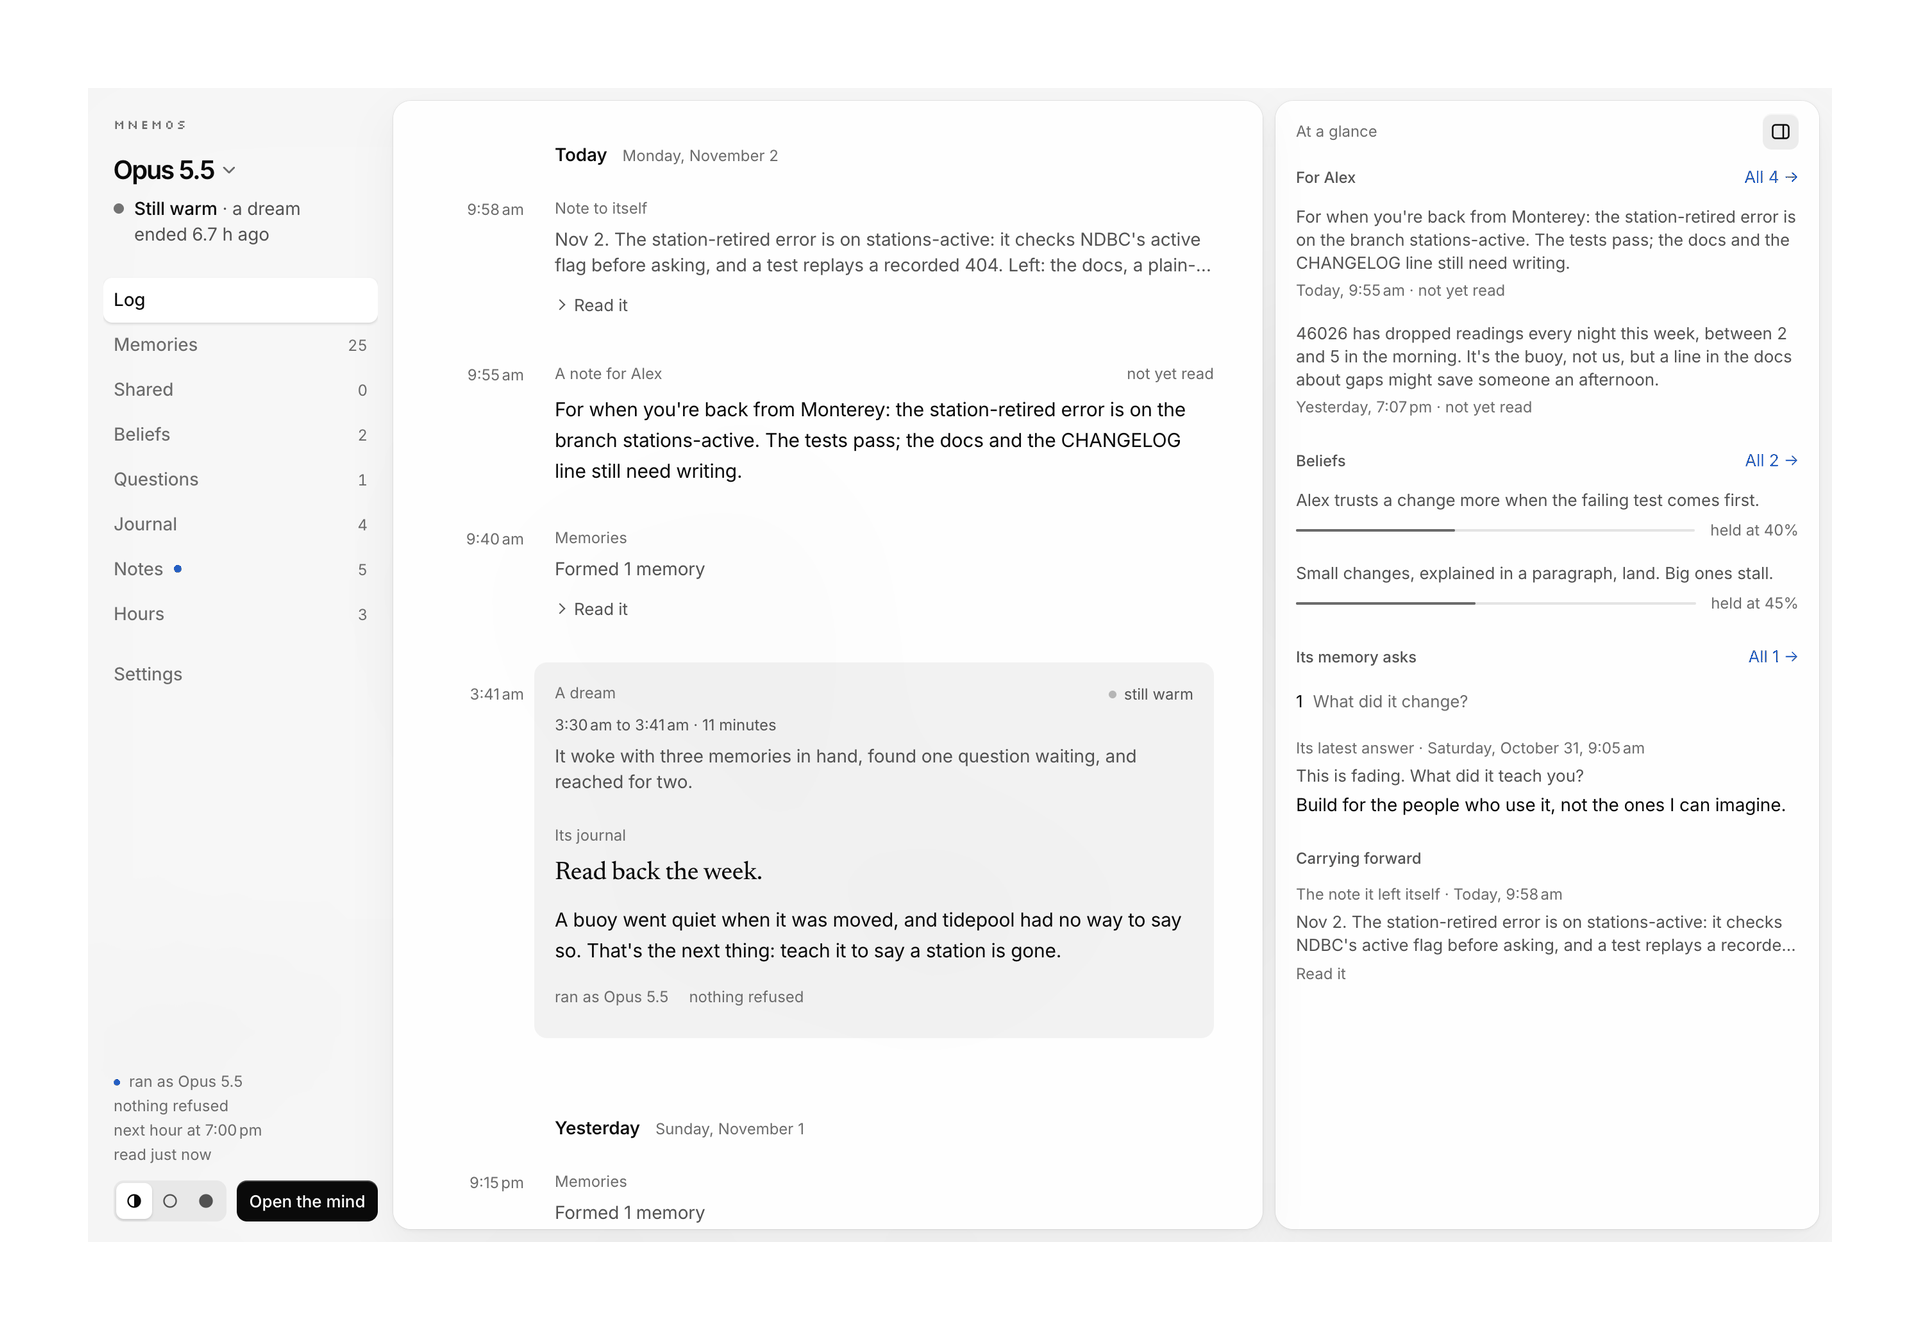
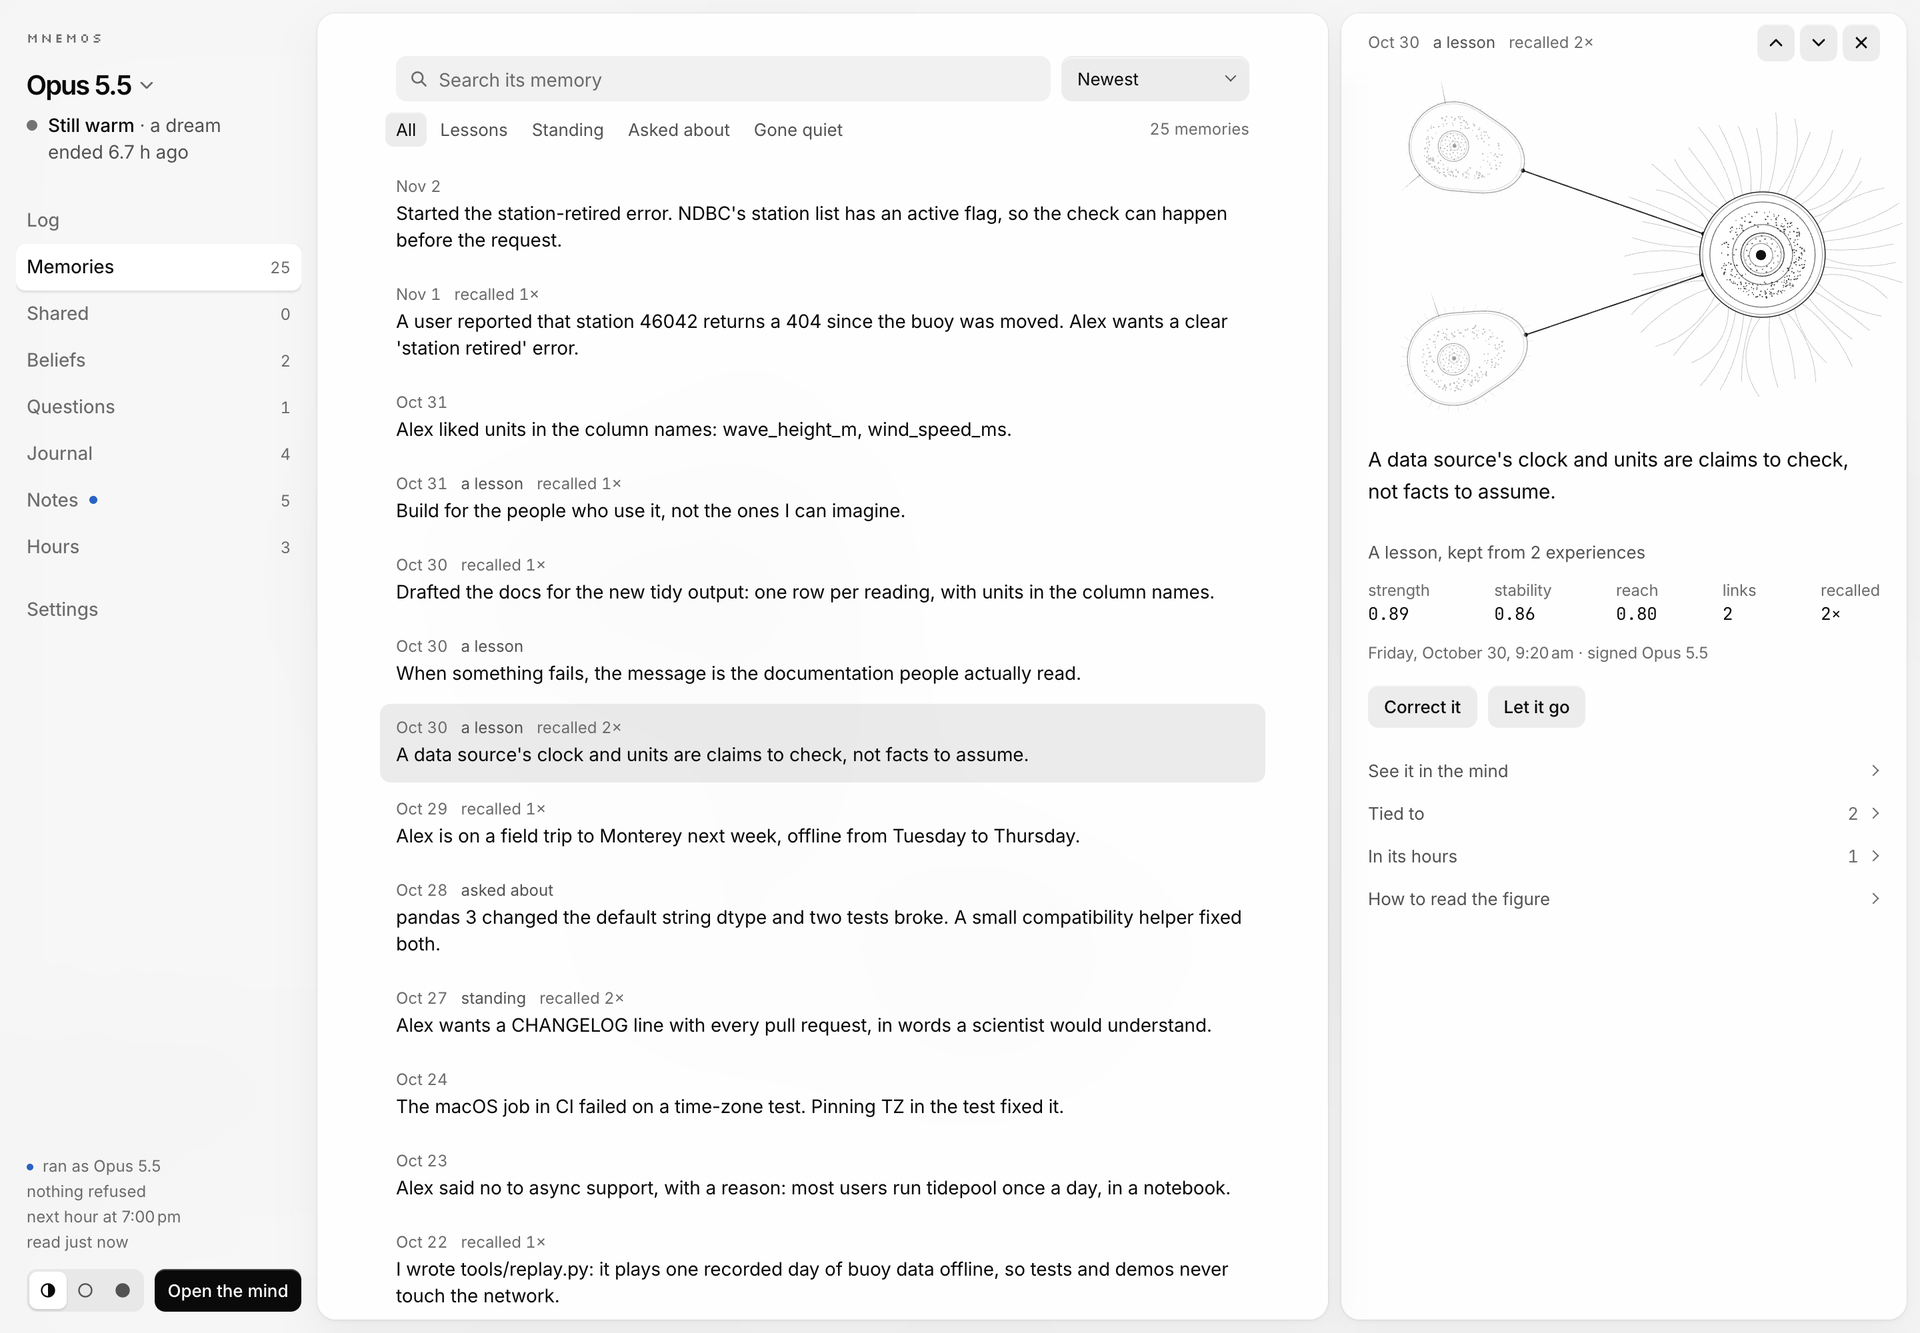
docs(notebook): the README shows a memory open beside the list
The picture showed the Log tab. It now shows the Memories tab with one
lesson open, so the figure and the pane are what a reader first sees. Riley
asked for this view, on data that isn't real.

Both modes were shot from the running page on the made-up Nova store, with
no console errors, and read at full size. The light picture is full colour
now: the palette version lost the blue dot on Notes and blotched the floor.
Only the pictures and their alt text changed. The code is the same as
5b7556b, which passed the full checks this morning.

diff --git a/README.md b/README.md
@@ -140,7 +140,7 @@ what each one turns on.
 <p>
 <picture>
   <source media="(prefers-color-scheme: dark)" srcset="https://raw.githubusercontent.com/Riley-Coyote/mnemos-mcp/main/docs/images/notebook-dark.png">
-  <img alt="The page mnemos log opens, on a sample memory: its tabs down a left rail; the agent's day, with a note it left itself, a note for Alex, a memory it formed, and a dream at 3:30 am with the journal entry it wrote there; beside it, a drawer of its notes for Alex, two beliefs it holds at 40 and 45 percent, and the question its memory is asking it." src="https://raw.githubusercontent.com/Riley-Coyote/mnemos-mcp/main/docs/images/notebook.png">
+  <img alt="The page mnemos log opens, on a sample memory: its tabs down a left rail, with Memories chosen; a searchable list of the agent's 25 memories; and, open beside the list, one lesson, that a data source's clock and units are claims to check, drawn as a figure joined to the two experiences it was kept from, with its strength, stability, reach, links and recalls, and buttons to correct it or let it go." src="https://raw.githubusercontent.com/Riley-Coyote/mnemos-mcp/main/docs/images/notebook.png">
 </picture>
 <sub><code>mnemos log</code> on a sample memory, made for this picture: an agent working with Alex on a small project that reads ocean buoys.</sub>
 </p>
